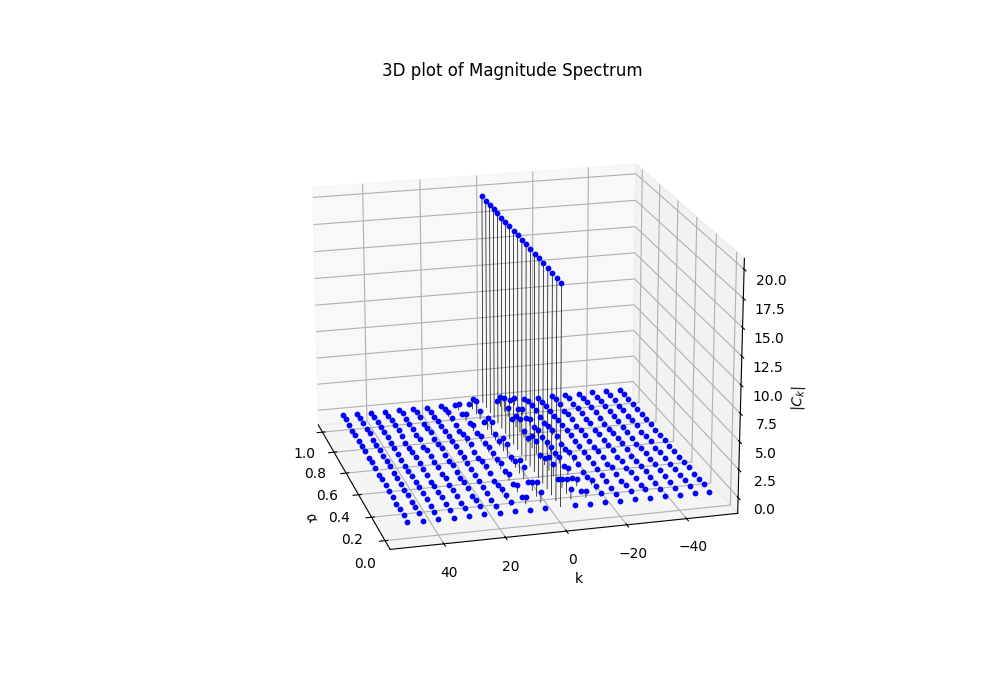
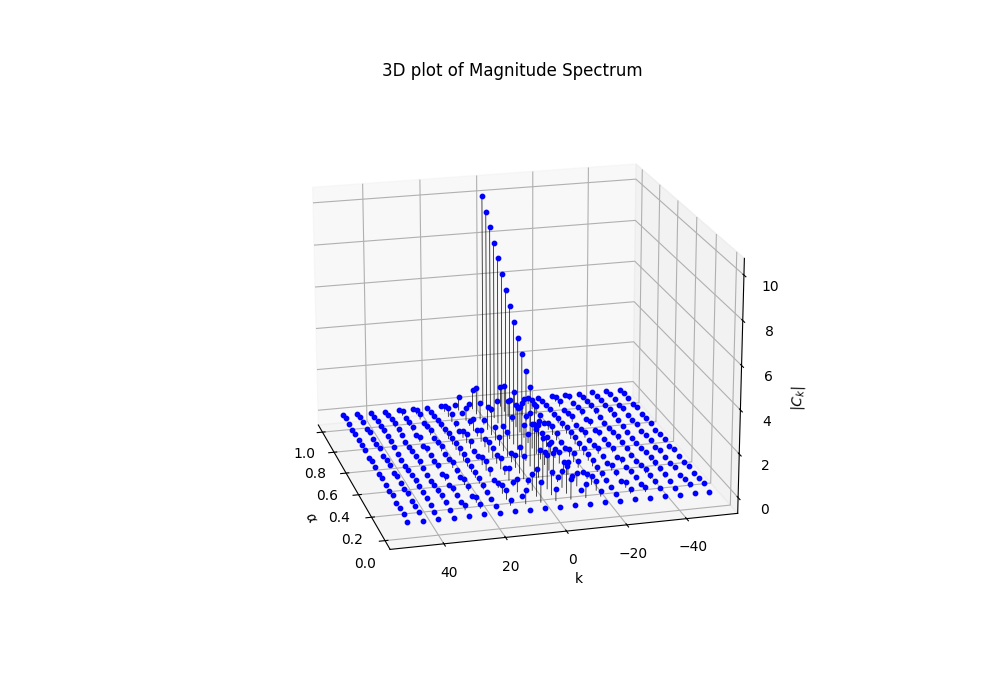
changes

diff --git a/spectrum.py b/spectrum.py
@@ -55,7 +55,7 @@ for alpha in alpha_vals:
         if val != 0:
             Ck[i] = np.abs((20 / (np.pi * val)) * np.sin(np.pi * val * alpha))
         else:
-            Ck[i] = 19.5
+            Ck[i] = 10 * alpha
     for i in range(len(k_vals)):
         ax1.plot([alpha, alpha], [k_vals[i], k_vals[i]], [0, Ck[i]], 'k-', linewidth=0.5)  # Stem line
         ax1.scatter(alpha, k_vals[i], Ck[i], color='b', s=10)  # Marker at the top
